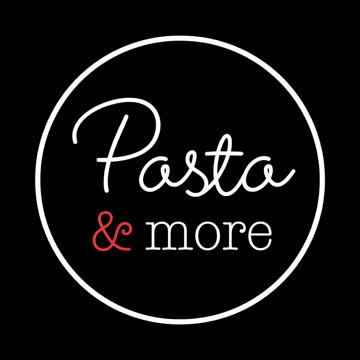
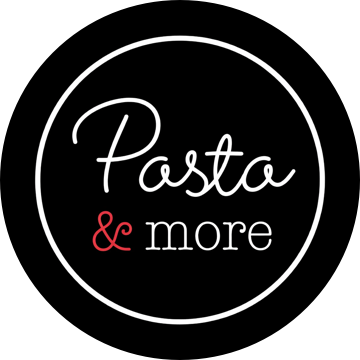
Publiceer c6f7e66

diff --git a/index.html b/index.html
@@ -10,10 +10,10 @@
 <meta name="theme-color" content="#0d0d0d">
 <link rel="icon" type="image/png" sizes="64x64" href="favicon.png">
 <link rel="apple-touch-icon" href="apple-touch-icon.png">
-<link rel="stylesheet" href="stijl.css">
+<link rel="stylesheet" href="stijl.css?v=1790527892">
 </head>
 <body>
-<div class="logo"><img src="pam.png" width="120" height="120" alt="Pasta &amp; More"></div>
+<div class="logo"><img src="pam.png?v=1790527892" width="120" height="120" alt="Pasta &amp; More"></div>
 <header class="kop">
   <div class="voortgang" id="voortgang" hidden>
     <div class="voortgang-tekst"><span id="stapNummer">Stap 1 van 4</span><span id="stapTitel"></span></div>
@@ -294,8 +294,8 @@
   </form>
 </main>
 
-<script src="config.js"></script>
-<script src="validatie.js"></script>
-<script src="app.js"></script>
+<script src="config.js?v=1790527892"></script>
+<script src="validatie.js?v=1790527892"></script>
+<script src="app.js?v=1790527892"></script>
 </body>
 </html>

diff --git a/stijl.css b/stijl.css
@@ -33,7 +33,8 @@ body {
   border-bottom: 1px solid var(--lijn);
 }
 .logo { display: flex; justify-content: center; padding: calc(20px + env(safe-area-inset-top)) 16px 4px; }
-.logo img { width: 120px; height: 120px; border-radius: 50%; display: block; }
+.logo img { width: 120px; height: 120px; border-radius: 50%; overflow: hidden; display: block; object-fit: cover;
+  clip-path: circle(50% at 50% 50%); }
 .kop:has(#voortgang[hidden]) { display: none; }
 .voortgang { max-width: 520px; margin: 0 auto; }
 .voortgang-tekst { display: flex; justify-content: space-between; gap: 12px; font-size: 13px; color: var(--zacht); margin-bottom: 6px; }
